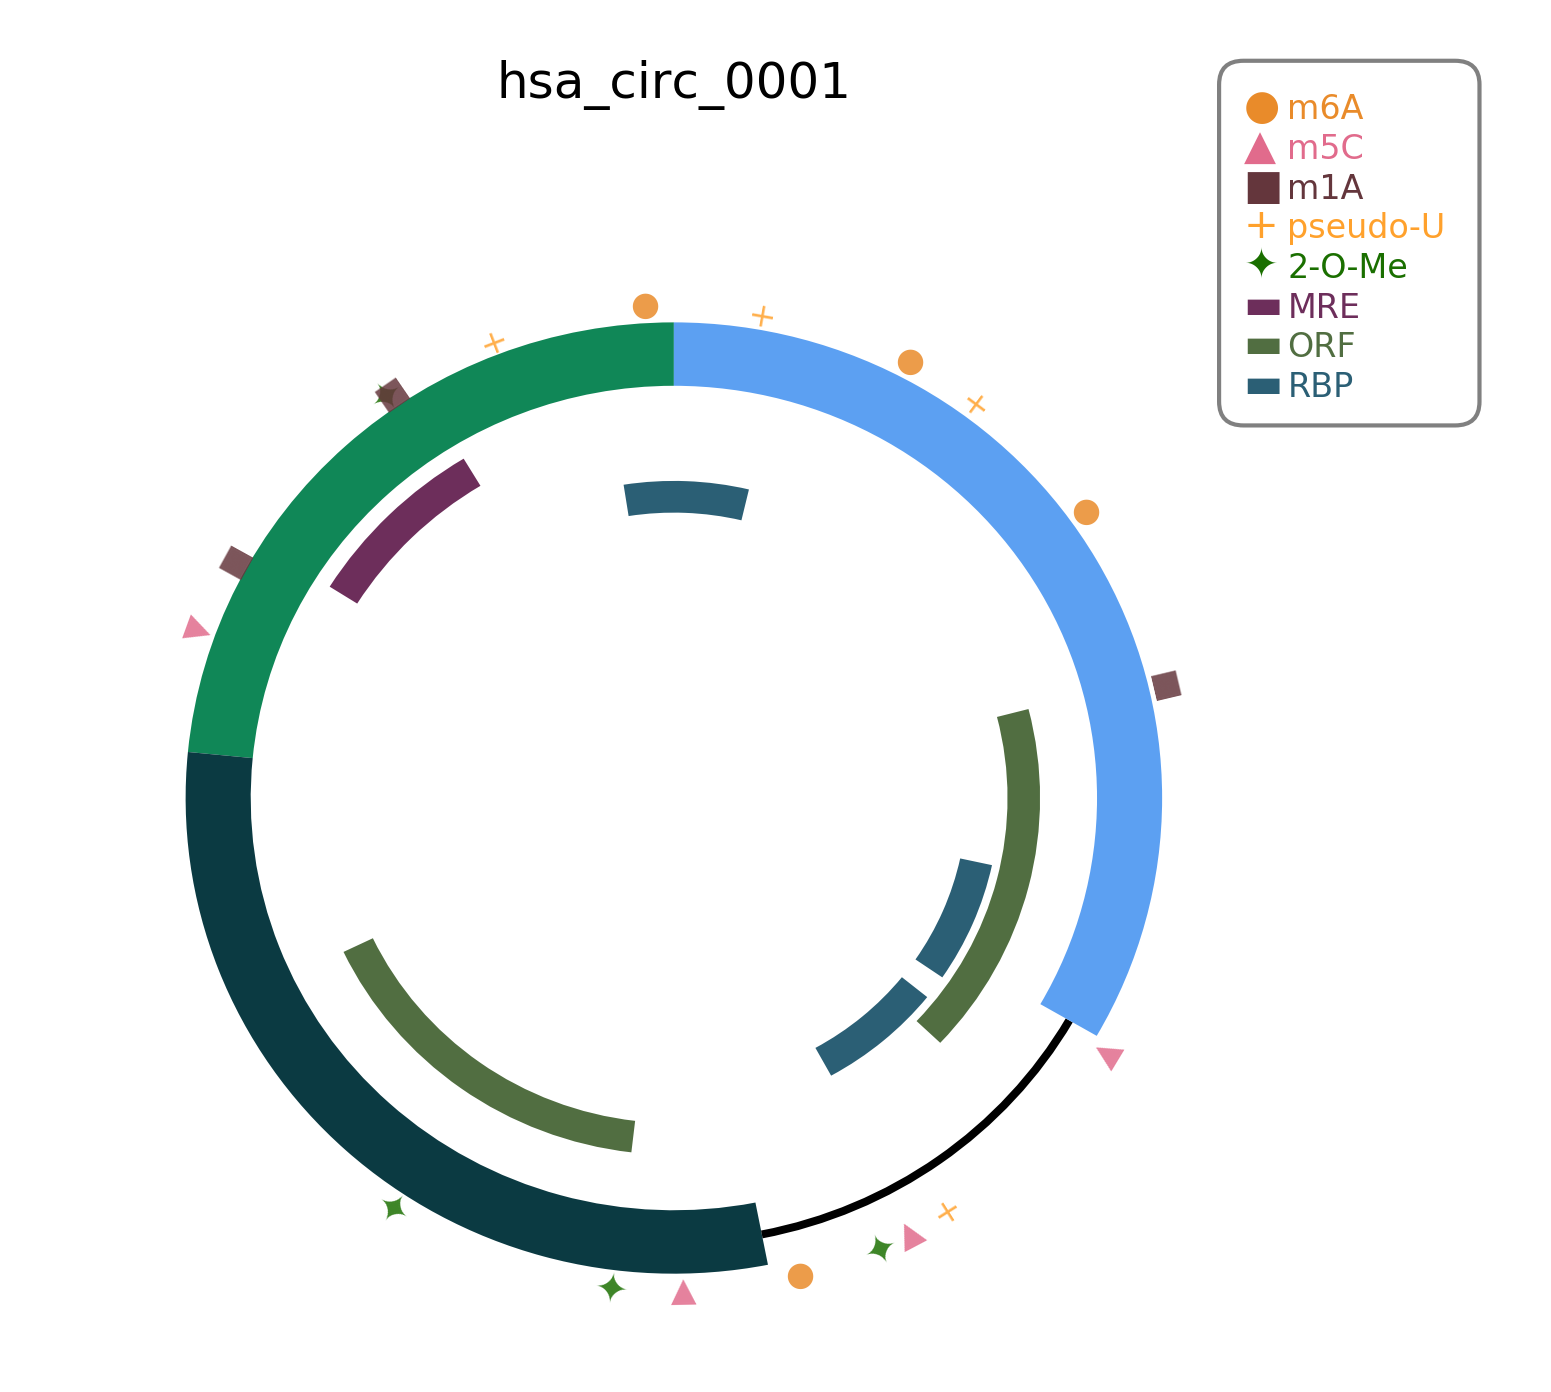
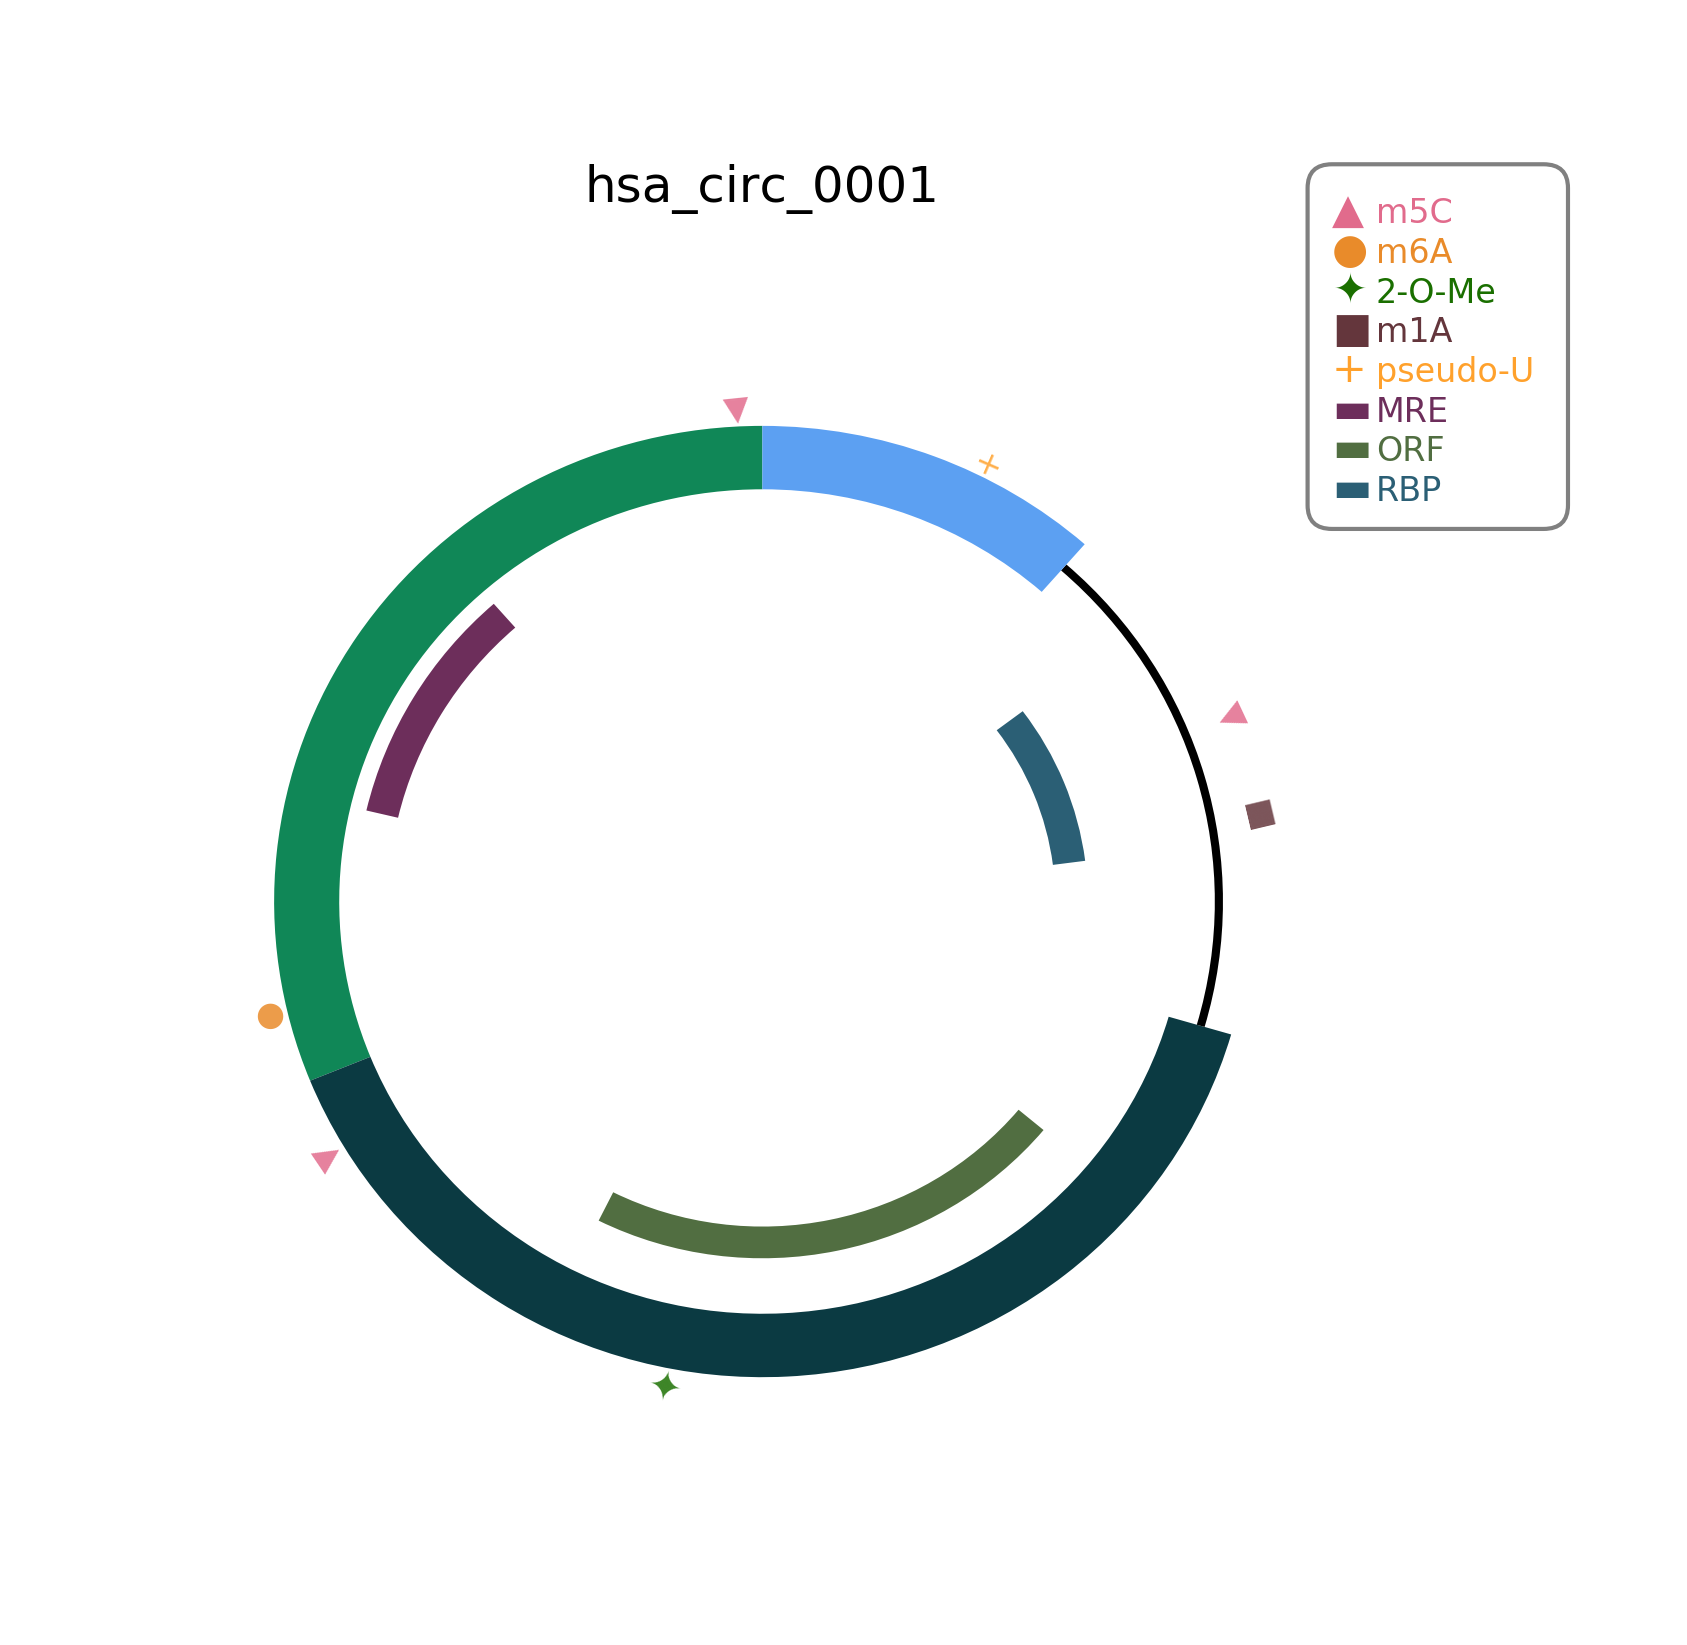
fix drawing logic, fix readme

diff --git a/circDraw/circDraw/draw.py b/circDraw/circDraw/draw.py
@@ -234,15 +234,15 @@ class circDraw:
         ax.add_patch(sec)
 
     def __draw_mod(self, ax, where, r, kind):
+        # opt : [shape, size, color, rotation_angle]
         opt = {'m6a': ['\u25CF', 8, self.__mod_color['m6a'], 0],  # circle
-               # triangle
-               'm5c': ['\u25B2', 8, self.__mod_color['m5c'], 180-where],
-               'm1a': ['\u25A0', 8, self.__mod_color['m1a'], 90-where],  # square
-               'pu': ['\u002B', 8, self.__mod_color['pu'], 90-where],  # plus sign
-               '2ome': ['\u2726', 10, self.__mod_color['2ome'], 90-where]}  # star
+               'm5c': ['\u25B2', 8, self.__mod_color['m5c'], 90+where+3], # tri
+               'm1a': ['\u25A0', 8, self.__mod_color['m1a'], where+3],  # square
+               'pu': ['\u002B', 8, self.__mod_color['pu'], where+3],  # plus sign
+               '2ome': ['\u2726', 10, self.__mod_color['2ome'], where]}  # star
 
-        x = self.__circ_center[0] + r*np.sin(np.radians(where))
-        y = self.__circ_center[1] + r*np.cos(np.radians(where))
+        x = self.__circ_center[0] + r*np.cos(np.radians(where))
+        y = self.__circ_center[1] + r*np.sin(np.radians(where))
         aes = opt[kind]
         ax.text(x, y, aes[0], fontsize=aes[1], color=aes[2],
                 horizontalalignment='center', verticalalignment='center', rotation=aes[3], alpha=0.85)
@@ -286,9 +286,13 @@ class circDraw:
                         p = 0
                 else:
                     pass
-
+        
+        # sorted exons/introns from start to end
         exons = sorted([[int(x[0]), int(x[1])] + x[2:]
                         for x in data['exon'] + data['intron']], key=lambda x: x[0])
+        
+        #print(exons)
+        
         circs_components, circ_ran = [], 0
         for circ in data['circ']:
             start, end = int(circ[0]), int(circ[1])
@@ -298,13 +302,13 @@ class circDraw:
                          'exons': []}
             for exon in exons:
                 e_start, e_end = int(exon[0]), int(exon[1])
-                if e_start < start & e_end > start:
+                if (e_start < start) & (e_end > start):
                     exon[0] = start
-                elif start <= e_start & e_end <= end:
+                elif (start <= e_start) & (e_end <= end):
                     pass
-                elif e_start < end & end < e_end:
+                elif (e_start < end) & (end < e_end):
                     exon[1] = end
-                elif e_start < start & e_end > end:
+                elif (e_start < start) & (e_end > end):
                     exon[0] = start
                     exon[1] = end
                 e_start, e_end = int(exon[0]), int(exon[1])
@@ -313,9 +317,13 @@ class circDraw:
 
                 for mod in data['mod']:
                     mod_start, mod_end = int(mod[0]), int(mod[1])
-                    if mod_start >= e_start & mod_end <= e_end:
+
+                    if (mod_start >= e_start) & (mod_end <= e_end):
                         mod[0], mod[1] = mod_start, mod_end
                         exon[-1].append(mod)
+                
+                #print(exon)
+                
                 circ_info['exons'].append(exon)
 
             circs_components.append(circ_info)
@@ -369,7 +377,6 @@ class circDraw:
                 start = tail
                 end = 360*(ran)/self.__circ_ran + start
                 tail = end
-                # def __draw_ring(self, ax, start, end, color, kind='exon'):
                 self.__draw_ring(ax, start, end, exon[4], kind=exon[2])
                 for mod in exon[5]:
                     mod_start = (end - start)*(mod[0] - low)/ran + start
@@ -385,7 +392,7 @@ class circDraw:
                                 r += 0.05
                             else:
                                 r += 0
-                        self.__draw_mod(ax, mod_start, mod_r, kind=mod_name)
+                        self.__draw_mod(ax, (mod_start+mod_end)/2, mod_r, kind=mod_name)
 
                     if mod_name in ['mre', 'rbp', 'orf']:
                         try:

diff --git a/README.md b/README.md
@@ -1,7 +1,7 @@
 # circDraw-py
 [![PyPI version](https://badge.fury.io/py/circDraw.svg)](https://badge.fury.io/py/circDraw)
 
-This is a stand alone project which extends the power of [circDraw](https://www.circdraw.com/) service to command line users. To better connect with the upsteam pipline, we create a python3 package for generating publication level circular RNA with emphasis on the best way to display backsplite sites and integrate epigenomic/genetic information. And to further convenience users benefit from our circDraw webservice directly from command line, an uploading command line inferface is also integrated into this package and can be revoked from terminal. Overall, this repo contains the following:
+This is a stand alone project which extends the power of [circDraw](https://www.circdraw.com/) service. To better connect with the upsteam pipline, we create a python3 package for generating publication quality visualization of circRNA with internal structures and modifications/functional elements information. And to access circDraw webservice without a browser, a command line inferface is integrated into for you to submit jobs in shell. Overall, this repo contains the following:
 
 1. Python package for circDraw [visualization](https://github.com/Mr-Milk/circDraw-py/blob/master/README.md#usage-draw-with-circdraw)
 2. circDraw [upload command line tool](https://github.com/Mr-Milk/circDraw-py/blob/master/README.md#usage-upload-to-circdraw-webservice) for webservice
@@ -61,21 +61,20 @@ mod_palette = {'m6a': '#E98B2A',
 cd.set_mod_palette(mod_palette)
 
 # draw backsplicing site on chromosome region
-cd.circ_on_chr('Your file')
+cd.circ_on_chr('/path/to/file')
 
 # draw modifications on circRNA
-cd.mod_on_circ('Your file')
+cd.mod_on_circ('/path/to/file')
 ```
 
 <p align="center">
 <img src='/src/circDraw.png' width='85%'>
-
 <img src='/src/hsa_circ_0001.png' width='65%'>
 </p>
 
-### API
+### Method
 
-##### circ_on_chr
+#### circ_on_chr
 
 ```python
 circDraw.circ_on_chr(file, title='circDraw', dpi=300, save='png', show=True, size=(10, 5))
@@ -87,7 +86,6 @@ circDraw.circ_on_chr(file, title='circDraw', dpi=300, save='png', show=True, siz
     
   - | Start | End  | Type | Name | Color (Optional) |
     | ----- | ---- | ---- | ---- | ---------------- |
-    |       |      |      |      |                  |
   
   - Start < End
   
@@ -103,7 +101,7 @@ circDraw.circ_on_chr(file, title='circDraw', dpi=300, save='png', show=True, siz
 
 - Size: (Length, Width) the size of the plot.
 
-##### mod_on_circ
+#### mod_on_circ
 
 ```python
 circDraw.mod_on_circ(self, file, dpi=100, save='png', show=True, size=(7, 7), sep_mod=False)
@@ -115,7 +113,6 @@ circDraw.mod_on_circ(self, file, dpi=100, save='png', show=True, size=(7, 7), se
 
   - | Start | End  | Type | Name | Color (Optional) |
     | ----- | ---- | ---- | ---- | ---------------- |
-    |       |      |      |      |                  |
 
   - Start < End
 
@@ -133,7 +130,7 @@ circDraw.mod_on_circ(self, file, dpi=100, save='png', show=True, size=(7, 7), se
 
 - sep_mod: Bool, prevent the modifications from overlapping if set **True**.
 
-##### set_palette
+#### set_palette
 
 ```python
 circDraw.set_palette(palette)
@@ -141,7 +138,7 @@ circDraw.set_palette(palette)
 
 A list of colors, the length of the list must bigger than 5.
 
-##### set_mod_palette
+#### set_mod_palette
 
 ```python
 circDraw.set_mod_palette(palette)
@@ -177,9 +174,8 @@ $ circDraw-upload -f test_circfile.bed -t BED -s human-hg19 -f test_circfile.bed
 #### 2. Upload file with init file
 circDraw-upload also supports upload file from one init file to avoid tedious typing through command line. You can specify the uploaded filename, file type and its origin species in a single csv file. The cvs file should follow the following format with "," seperating each column:
 
-Upload filename | Upload file type | Origin species
---- | --- | ---
- | | 
+| Upload filename | Upload file type | Origin species |
+| --- | --- | --- |
 
 __Note__: Currently circDraw only supports limited filetypes and species, they are specified in the following table:
 - Supported file types:

diff --git a/circDraw/README.md b/circDraw/README.md
@@ -1,11 +1,18 @@
-# circDraw
+# circDraw-py
 [![PyPI version](https://badge.fury.io/py/circDraw.svg)](https://badge.fury.io/py/circDraw)
 
-A python package for circDraw visualization
+This is a stand alone project which extends the power of [circDraw](https://www.circdraw.com/) service.
 
 
+### Dependency
+- [Matplotlib](https://matplotlib.org/) 3.1.2
+- [Numpy](https://numpy.org/) 1.18.0
+- [Colour](https://pypi.org/project/colour/) 0.1.5
+- [Requests](https://pypi.org/project/requests/2.7.0/) 2.22.0
 
-## Usage
+
+## Usage: Draw with circDraw
+CircDraw provides python package to use when drawing circular RNA with the emphasis on backspliting sites visulization and epigenetic marker display. Import `circDraw` class via your favourite python3 interpreter or enbed it inside a script to use the drawing function.
 
 ```python
 from circDraw import circDraw
@@ -28,17 +35,20 @@ mod_palette = {'m6a': '#E98B2A',
 cd.set_mod_palette(mod_palette)
 
 # draw backsplicing site on chromosome region
-cd.circ_on_chr('Your file')
+cd.circ_on_chr('/path/to/file')
 
 # draw modifications on circRNA
-cd.mod_on_circ('Your file')
+cd.mod_on_circ('/path/to/file')
 ```
 
+<p align="center">
+<img src='/src/circDraw.png' width='85%'>
+<img src='/src/hsa_circ_0001.png' width='65%'>
+</p>
 
+### Method
 
-### API
-
-##### circ_on_chr
+#### circ_on_chr
 
 ```python
 circDraw.circ_on_chr(file, title='circDraw', dpi=300, save='png', show=True, size=(10, 5))
@@ -50,7 +60,6 @@ circDraw.circ_on_chr(file, title='circDraw', dpi=300, save='png', show=True, siz
     
   - | Start | End  | Type | Name | Color (Optional) |
     | ----- | ---- | ---- | ---- | ---------------- |
-    |       |      |      |      |                  |
   
   - Start < End
   
@@ -66,7 +75,7 @@ circDraw.circ_on_chr(file, title='circDraw', dpi=300, save='png', show=True, siz
 
 - Size: (Length, Width) the size of the plot.
 
-##### mod_on_circ
+#### mod_on_circ
 
 ```python
 circDraw.mod_on_circ(self, file, dpi=100, save='png', show=True, size=(7, 7), sep_mod=False)
@@ -78,7 +87,6 @@ circDraw.mod_on_circ(self, file, dpi=100, save='png', show=True, size=(7, 7), se
 
   - | Start | End  | Type | Name | Color (Optional) |
     | ----- | ---- | ---- | ---- | ---------------- |
-    |       |      |      |      |                  |
 
   - Start < End
 
@@ -96,7 +104,7 @@ circDraw.mod_on_circ(self, file, dpi=100, save='png', show=True, size=(7, 7), se
 
 - sep_mod: Bool, prevent the modifications from overlapping if set **True**.
 
-##### set_palette
+#### set_palette
 
 ```python
 circDraw.set_palette(palette)
@@ -104,7 +112,7 @@ circDraw.set_palette(palette)
 
 A list of colors, the length of the list must bigger than 5.
 
-##### set_mod_palette
+#### set_mod_palette
 
 ```python
 circDraw.set_mod_palette(palette)
@@ -112,3 +120,8 @@ circDraw.set_mod_palette(palette)
 
 A dictionary of colors match with the modification. You can change any one of the modification colors.
 
+
+## More information
+This a part of circDraw project. Please visit our [Contact](https://www.circdraw.com/information/about) page if you have any questions.
+
+**Copyright**: Qu Lab, School of Life Science, Sun Yat-sen University, Guangzhou, CHINA.
